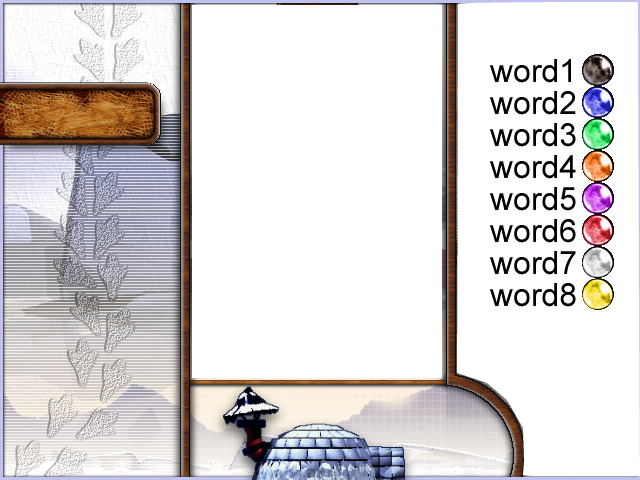
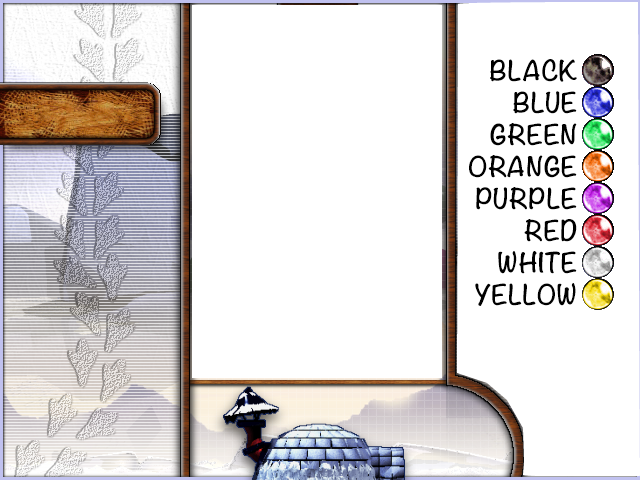
changed level and added colors to current world

Changed region(s): [[0.7188, 0.125, 0.9062, 0.6562]]

diff --git a/public/js/controllers/player.js b/public/js/controllers/player.js
@@ -1,3 +1,5 @@
+var colorStrQueue = [];
+
 /**
   * Author: Alonso Vidales <alonso.vidales@tras2.es>
   * Date: 2012-03-25
@@ -168,8 +170,11 @@ var Player_Controller = (function(inCompressor) {
 			config.shooter.top + config.shooter.height - 10);
 
 		// TODO gets the bubble color
-        var colorStr = getColorFromType(chamberBubble.getType());
+        colorStr = getColorFromType(chamberBubble.getType());
+        // localStorage.setItem('colors', currWord);
         console.log(colorStr);
+        colorStrQueue.push(colorStr);
+        setNextColor();
 	};
 
 	/**

diff --git a/public/js/app.js b/public/js/app.js
@@ -48,6 +48,18 @@ function nextWord() {
     showVideos();
 }
 
+function setNextColor() {
+    // alert(colorStrQueue.length);
+    var cW = localStorage.getItem("currentWord");
+    if (colorStrQueue.length == 1) {
+        cW = cW + " = " + colorStrQueue[0];
+    } else {
+        cW = cW + " = " + colorStrQueue.shift();
+    }
+    $('#txt_word').text(cW);
+    $(this).css('color', 'red');
+}
+
 function gameEnd() {
     isDone = true;
     gamePlayedOnce = true;

diff --git a/public/js/level_temp/levels.js b/public/js/level_temp/levels.js
@@ -15,11 +15,17 @@
 var levels = {
 	1: [{
 		row: 0,
-		col: 3
+		col: 2
 	}, {
 		row: 0,
-		col: 4
+		col: 3
 	}, {
+        row: 0,
+        col: 4
+    }, {
+        row: 0,
+        col: 5
+    }, {
 		row: 1,
 		col: 4.5
 	}, {
@@ -34,10 +40,7 @@ var levels = {
 	}, {
 		row: 2,
 		col: 4
-	}, {
-        row: 3,
-        col: 4
-    }],
+	}],
 	2: [{
 		row: 0,
 		col: 4
